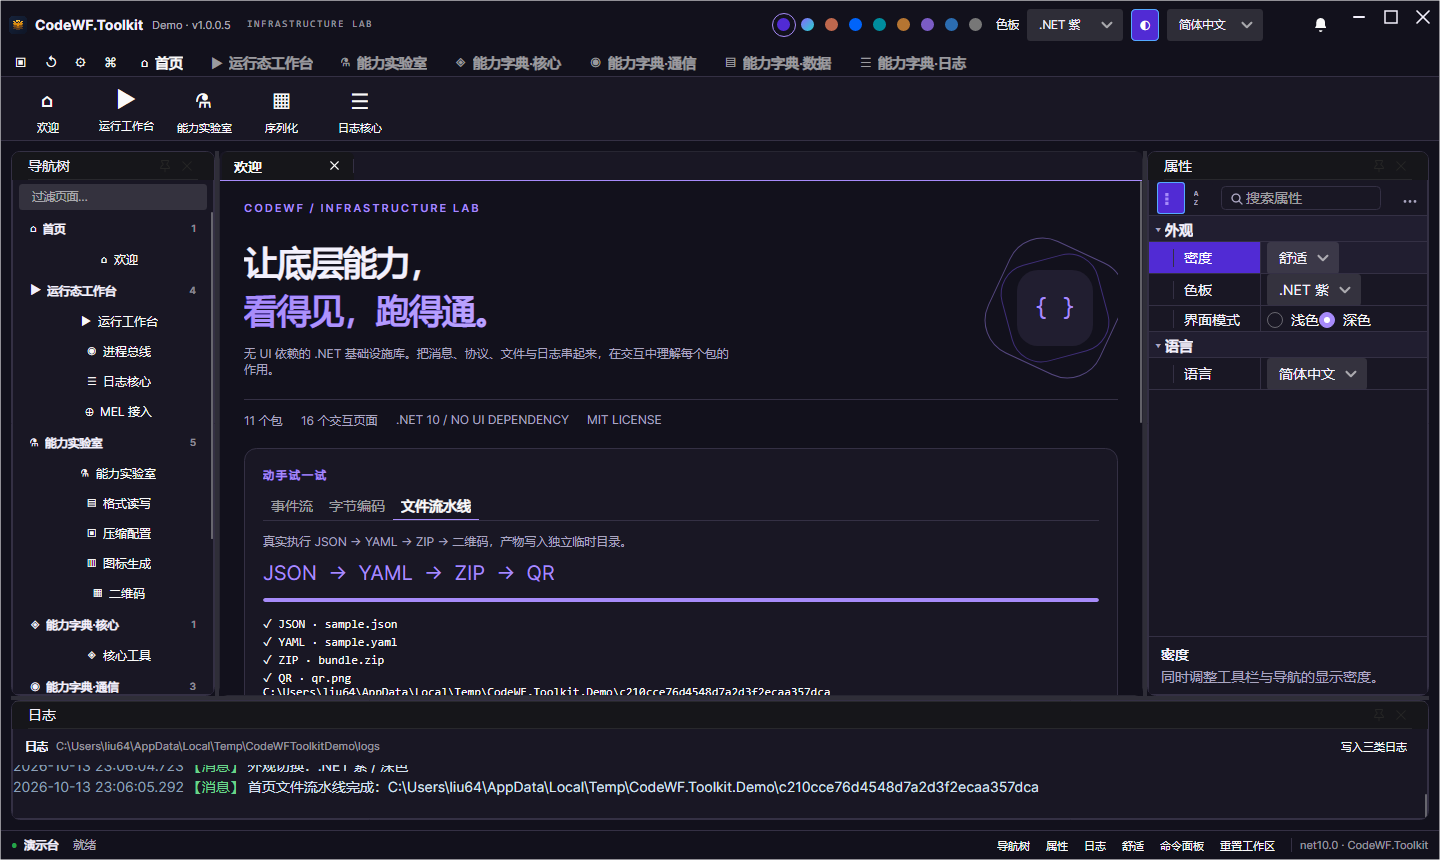
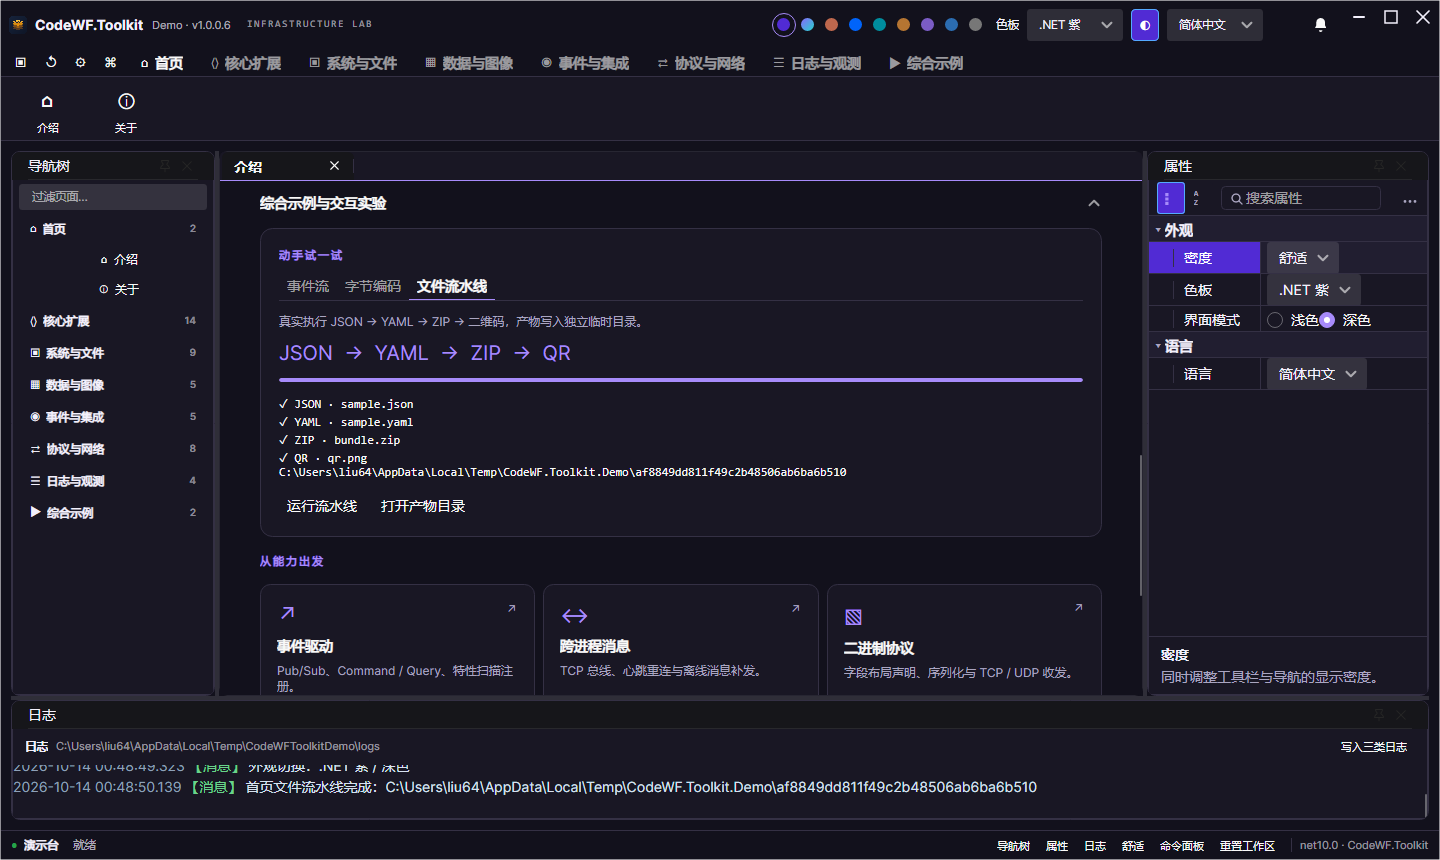
docs(demo): 更新帮助类目录与原生演示截图

diff --git a/docs/NativeDemo.md b/docs/NativeDemo.md
@@ -1,15 +1,14 @@
-# Toolkit 原生演示台
+# CodeWF.Toolkit 原生 Demo
 
-`design/` 原型冻结。图形 Demo 用真实 Toolkit API 展示基础设施如何组成工作流，复用 Semi、Dock 与 CodeWF.Avalonia 的现有 UI。
+保留 Ribbon + Dock，按功能分类查找单个帮助类。原型与实现由 `design/catalog.json` 共享导航契约，详细清单见 [设计目录](../design/README.md)。
 
-## 首页实验
+## 页面结构
 
-- **事件流**：真正订阅、发布与退订 `GreetCommand`，显示接收计数和日志；动画按发布、路由、接收与日志阶段推进。
-- **字节编码**：Int32 经 NetWeaver 序列化和反序列化，显示小端字节与往返结果，支持负数、边界值和无效输入。
-- **文件流水线**：通过 Core 源生成 JSON、Files 转 YAML、SevenZipCompressor 打 ZIP、Image 生成二维码。每次在系统临时目录创建独立文件夹，可直接打开产物。
-- 六张能力卡片进入事件驱动、跨进程消息、二进制协议、文件与数据、图像工具链、运行期观测页面。原有导航、属性编辑、源码、场景工作流及布局存档仍可使用。
-
-默认 .NET 紫色暗色；AI 极光（紫 / 青渐变）和 AI 暖陶也支持深浅模式，原有六套 Semi 配色沿用原来的行为。动画使用 Avalonia 原生能力。首页状态与命令在 `WelcomeViewModel`，视图后置仅做初始化和平台接线。
+- 首页仅包含介绍、关于；介绍先展示 API 目录。
+- 主功能组的一个菜单叶子对应一个帮助类或公开 API。
+- 综合示例统一放在末组，首页的 真实事件总线、Int32 编解码和文件流水线 默认折叠。
+- 演示始终可见；源码按需展开，有内容才显示相应语言标签。
+- 标题栏色圈和下拉同步切换 .NET 紫、AI 极光、AI 暖陶与 Semi 原有配色。
 
 ## 独立构建与 NuGet 依赖
 
@@ -25,43 +24,22 @@ dotnet run --project demo/CodeWF.Toolkit.Demo.Avalonia
 
 Toolkit 的 11 个生产库仍没有 UI 依赖，Demo 通过同仓 ProjectReference 演示当前实现。Prism 集成使用 `DryIoc.dll 4.8.0`，与既有 Prism 的 DryIoc DLL 一致，避免源码包重复编入同名类型。
 
-## 国际化与验证
+## MVVM 与国际化
 
-中文显示文本与代码示例位于 `demo/CodeWF.Toolkit.Demo.Avalonia/I18n/`；AXAML 使用 I18n，C# 组合视图的固定文案用 `StudioUi` 的 `@资源键` 绑定。切换中英文会更新标题、配色名称、固定文案和属性面板，保留用户编辑及产物结果。
+帮助类页面由 `HelperDemoViewModel` 管理输入、异步运行、忙碌状态和结果；`HelperDemoCatalog` 显式调用生产 API。AXAML 后置只保留视图接线，生产工具仍归对应 Toolkit 包。固定中文文案位于 `I18n/` 资源文件，切换语言不会覆盖用户输入与执行结果。
+
+
+## 目录与回归检查
+
+目录以源生成 JSON 元数据读取，页面工厂使用显式分支，避免 AOT 中依赖反射发现页面。测试检查重复菜单 / API、双语标题、显式工厂和原型生成数据一致性；修改目录后执行 `pwsh scripts/sync_design_catalog.ps1`。
 
 ```powershell
-dotnet run --project demo/CodeWF.Toolkit.Demo.Avalonia -- --smoke
-dotnet run --project demo/CodeWF.Toolkit.Demo.Avalonia -- --capture ./artifacts/studio-qa
-dotnet test tests/CodeWF.Toolkit.Tests --filter FullyQualifiedName~DemoResourceTests
+dotnet test CodeWF.Toolkit.slnx -c Release
 ```
-
-首页冒烟检查真实总线接收 / 退订、Int32 极值往返、无效输入、源生成 JSON / YAML 往返、ZIP 条目、二维码与多尺寸 ICO 文件、六个导航入口。另以本机回环 TCP 验证数据包收发和 Socket 事件总线实际握手、订阅、投递、停止；Prism 和 ASP.NET Core 按钮执行真实 DI 注册、扫描与 Query，不启动 HTTP 服务。其余冒烟逐页 / 逐主题渲染并检查场景步骤。
-
-测试验证双语键集合、固定文案缺键和英文资源。截图模式覆盖三套新配色的深浅、三个实验页签、英文、能力卡片、最小窗口及完整功能页面，结束后退出。
-
-日志集合通过 UI 线程追加并保持容量上限。NetWrapper 后台收发与停止流程不捕获调用者的 UI 同步上下文，回归测试使用不泵消息的上下文验证同步停止不会死锁。Socket 内部协议类型显式保留反射元数据，防止 AOT 握手数据被裁剪。
-
-## 原型与库功能映射
-
-| 原型入口 | 原生页面 | 生产库 / 实际调用 |
-|---|---|---|
-| 事件驱动 | Bus、首页事件流 | EventBus 的 Publish / Subscribe / Unsubscribe / Query |
-| 事件驱动的宿主集成 | BusIntegrations | EventBus.Prism 的 AddEventBus / UseEventBus；真实 DryIoc 注册与 Query |
-| 事件驱动的宿主集成 | BusIntegrations | EventBus.AspNetCore 的 AddEventBus / UseEventBus；ServiceProvider 注册与 Query |
-| 跨进程消息 | BusIntegrations、RuntimeFlow | EventBus.Socket 的 broker、握手、订阅、发布与停止 |
-| 二进制协议 | NetPacket、首页字节编码 | NetWeaver 字段声明、对象序列化与 Int32 极值往返 |
-| 二进制协议的传输 | NetSocket、RuntimeFlow | NetWrapper TCP / UDP 页面；冒烟真实验证回环 TCP |
-| 文件与数据 | FilesFormat、FilesArchive、FilesIndex、首页流水线 | Files 的 JSON / YAML / CSV / Excel 入口、归档与索引；冒烟验证 JSON / YAML / ZIP |
-| 图像工具链 | ImageIcon、ImageQr、LabFlow | Image 的图标 / 转换 / 二维码入口；冒烟生成 QR 与多尺寸 ICO |
-| 运行期观测 | LogCore、LogOptions、底部日志 | Logging 配置、健康快照、文件日志与 UI 事件流 |
-| 运行期观测的 MEL 桥接 | LogMicrosoft、RuntimeFlow | Logging.Microsoft 的 AddCodeWF、结构化日志与模板解析 |
-| 运行期观测的核心工具 | Core、首页流水线 | Core 的 JsonTypeInfo 序列化、编码 / 扩展及目录 / 更新检查入口 |
-
-原型已经包含这些库功能。本轮新增的注册按钮、真实 API 冒烟与生成产物使既有入口可执行，没有扩展原型的产品范围，`design/` 保持冻结。原生界面沿用 Semi / Dock 控件模板，窗口按钮、属性编辑器与字体存在平台差异，不宣称像素级一致。
 
 ## Windows NativeAOT 验收
 
-当前环境为 Windows x64、.NET SDK 10.0.401，Toolkit 版本 `1.0.0.5`。执行各自的仓库脚本，然后直接启动原生 EXE：
+验收环境为 Windows x64、.NET SDK 10.0.401，版本 `1.0.0.6`。用本仓脚本发布后直接启动原生 EXE：
 
 ```powershell
 pwsh scripts/publish_toolkit_demo.ps1 -RuntimeIdentifier win-x64
@@ -70,6 +48,12 @@ Start-Process $demo -ArgumentList '--smoke' -Wait -PassThru
 Start-Process $demo -ArgumentList '--capture ./artifacts/studio-qa' -Wait -PassThru
 ```
 
-退出 0 才算通过。冒烟包含上述实调用、16 个页面、9 个场景步骤、208 次页面渲染和 5 次外壳渲染；日志位于系统临时目录 `CodeWFToolkitDemo/logs`。README 的 PNG 来自原生产物，GIF 由主题 / 实验切换时的原生界面帧生成。
+冒烟退出 0：49 个页面、9 个场景步骤、637 次主题渲染、5 次外壳渲染；另外验证首页总线退订、Int32 极值往返、JSON / YAML、ZIP、QR / ICO，以及新增帮助类的实调用。TCP、UDP、Socket 事件总线与远程目录请求使用本机实例；Windows NativeLibraryHelper 解析 kernel32 的导出地址。UpdateChecker 需要用户点击才访问 GitHub，不纳入离线冒烟。
 
-第三方库和反射路径仍有裁剪 / AOT 分析警告，包括旧 Prism 对话框与动态 XAML Loader 的版本兼容警告。当前 Demo 不走这两条路径。验收不等同于所有库 API、异常路径与 CSV / Excel、UDP、断线补发等操作均已在 NativeAOT 下验证；Linux / macOS 留给发布矩阵验证。`v1.0.0.5` 标签触发 NuGet 和 Demo 发布。
+`--capture` 忽略用户存档布局，输出新配色的深浅、实验、英文、紧凑窗口和独立 API 页面截图，结束后退出。README 的 PNG 与 GIF 来自本轮原生 EXE。
+
+## 验收限制
+
+第三方库及动态反射路径仍有裁剪 / AOT 分析警告。远程文件上传、下载、断点续传及 Excel 等未在本轮原生冒烟中逐项验证；Linux / macOS 未在本机验收。NativeLibraryHelper 目前只支持 Windows。 页面渲染通过不等于全部 API、异常路径和平台行为均已验证。
+
+版本标签 `v1.0.0.6` 触发现有 NuGet 与 Demo 发布流程。

diff --git a/design/README.md b/design/README.md
@@ -1,36 +1,42 @@
-# CodeWF.Toolkit · Infrastructure Lab
+# CodeWF.Toolkit Demo 设计
 
-直接用现代浏览器打开 `CodeWF.Toolkit.Demo原型.html`，无需安装依赖。
+直接打开 `CodeWF.Toolkit.Demo原型.html`。原型与原生 Demo 共用 `catalog.json` 目录；Ribbon 与导航树读取同一份分类。
 
-## 设计方向
+## 信息架构
 
-用可观察的过程展示无 UI 依赖的基础设施库：发布消息时点亮 Publisher → EventBus → Subscriber → Logger 路径，修改整数查看编码后的字节与解码结果，运行文件处理流程示意。六个能力入口对应事件驱动、跨进程消息、二进制协议、文件数据、图片工具链、运行期观测。原有 16 个页面与场景工作流保留。
+按功能分类，每个主导航叶子对应一个具体帮助类或公开 API；介绍、关于和综合示例是明确的辅助入口。保留 Ribbon + Dock 外壳，将组合工作流集中到最后一组，首页先展示 API 目录，再提供默认折叠的实验区。
 
-沿用桌面应用的 Ribbon、导航、文档页签、属性与日志布局，以新的表面、间距、字重与动效统一外观。首页快速入口可以直接进入运行工作台、能力实验室、协议与日志页。
+| Ribbon 分类 | 菜单对应 API |
+|---|---|
+| 首页 / Home | `介绍`、`关于` |
+| 核心扩展 / Core Extensions | `StringExtensions`、`RegexExtensions`、`DoubleExtensions`、`NumberExtension`、`DateTimeExtension`、`TimeSpanExtensions`、`RandomExtension`、`IConvertibleExtensions`、`ObjectExtension`、`LinqExtension`、`EnumExtension`、`AssemblyExtensions`、`ValidationExtension`、`DateTimeConverter` |
+| 系统与文件 / System & Files | `ActionHelper`、`IpHelper`、`NativeLibraryHelper`、`FileHelper`、`AppDataMigrator`、`UpdateChecker`、`FileExtension`、`SevenZipCompressor`、`AppConfigHelper` |
+| 数据与图像 / Data & Images | `JsonExtensions`、`YamlExtensions`、`DataTableExtensions`、`ImageHelper`、`QrCodeGenerator` |
+| 事件与集成 / Events & Integration | `EventBus`、`Prism.EventBusExtensions`、`AspNetCore.EventBusExtensions`、`EventServer`、`EventClient` |
+| 协议与网络 / Protocol & Network | `SerializeHelper`、`TcpSocketServer`、`TcpSocketClient`、`UdpSocketServer`、`UdpSocketClient`、`NetHelper`、`TcpSocketClientFileSystemFeature`、`TcpSocketServerFileSystemFeature` |
+| 日志与观测 / Logging & Diagnostics | `Logger`、`CodeWFLoggingBuilderExtensions`、`LogEventFeed`、`CodeWFLogHealth` |
+| 综合示例 / Examples | `运行态工作流`、`文件处理工作流` |
 
-## 配色
+共 8 个分类、49 个页面。文档区默认完整展示功能演示；源码面板由“查看源码”打开，只提供有内容的 XAML / C# 标签。页面标题展示 API 名、NuGet 包与功能说明。
 
-| 配色 | 用途 | 颜色 |
-|---|---|---|
-| .NET Purple（默认） | .NET 品牌识别 | 品牌紫 `#512BD4`，深色文字使用更亮的紫色以保持可读性 |
-| AI Aurora | 科技感的视觉主题 | 紫色与青色渐变 `#8968FF → #26D4CC` |
-| AI Ember | 柔和、暖色的视觉主题 | 陶土色 `#BD674D` 与暖杏色 |
+## 配色与交互
 
-AI 配色是设计方向名称，不是统一的 AI 官方品牌色，也不代表本库新增了 AI 能力。原有六套配色继续可选，九套配色均支持深浅切换；这些新增配色目前仅用于 HTML 原型。
+默认 .NET 品牌紫 `#512BD4`，另有 AI Aurora（紫 / 青）与 AI Ember（暖陶）视觉主题，均支持深浅切换。AI 配色是视觉设计名称。标题栏色圈与下拉框共享选中状态，继续提供 Semi 原有配色。
 
-## 交互与动效
+保留主题、语言、密度、命令搜索、布局存档、Dock 面板显隐与引导。页面进入和按钮悬停有动画，并遵循浏览器“减少动态效果”设置。主导航菜单与首页目录点击后同步当前 Ribbon 分类。
 
-- 首页：消息路径逐步点亮、真实 Int32 小端字节编码 / 解码、四步流水线状态流转、安装命令复制。切换视图后停止旧视图的异步更新。
-- 全局：页面进入、卡片悬浮、品牌轨道、面板切换与弹层动效；遵循系统「减少动态效果」设置。
-- 快捷键：`Ctrl+K` 搜索命令，`Ctrl+S` 保存布局，`Ctrl+D` 深浅切换，`Ctrl+L` 语言切换，`F1` 引导。
-- 修复旧原型丢失事件绑定、场景页无法嵌入静态能力页、运行态最后一步缺少子页映射的问题。
+## 维护
 
-## 实现边界
+1. 在 `catalog.json` 维护分类、API、NuGet 包、页面工厂说明和原型路由。
+2. 在 Demo 的 `I18n/` 配置中维护双语标题与 `Demo.Api.*.Desc` 功能说明。
+3. 为原生 `DemoCatalog` 添加显式页面工厂，为原型注册对应演示。
+4. 执行 `pwsh scripts/sync_design_catalog.ps1` 更新浏览器目录与文案。
+5. 执行目录一致性测试与 Demo 冒烟检查。
 
-首页消息总线和文件流水线是浏览器交互示意，不建立 TCP 连接，不实际执行压缩、图片处理或 .NET 代码。协议预览用浏览器 DataView 编码一个 Int32 字段，不模拟完整 NetWeaver 数据包头。完整 API 能力与约束以仓库源码为准。
+`assets/catalog-data.js` 是生成文件；`catalog-gallery.js` 和 `catalog-gallery.css` 负责目录布局与浏览器预览。各仓库独立携带所有原型资源。
 
-新增视觉层位于 `assets/studio.css`，首页与交互增强位于 `assets/studio.js`。两仓的这两个文件保持相同，通过页面上的 `data-product` 选择内容，分发时各自独立运行。
+## 实现与验证边界
 
-## 验证
+浏览器原型展示交互与布局，不运行 .NET、原生窗口、Socket 或文件导出。页面明确提示仅为浏览器预览；实际 API 结果在原生 Demo 中产生。原生控件使用 Semi 与 Dock 的模板，字体、窗口按钮和平台交互存在差异。
 
-使用 Chromium / Edge 检查了 16 页渲染、消息交互、字节编码与非法输入、流程运行与切换取消、运行态第五步、实验室子页切换、九套配色的深浅模式、布局保存恢复、命令面板、320 / 390 / 768 / 1024 / 1440 像素首页布局与减少动态效果设置。未变更或验证原生 .NET 演示程序。
+浏览器逐页检查 49 个路由、中英文和导航切换，未发现脚本异常。NativeAOT 运行范围、命令与限制见 [原生 Demo 文档](../docs/NativeDemo.md)。

diff --git a/README.md b/README.md
@@ -173,17 +173,19 @@ CI 的 `aot-smoke` 作业会对控制台演示与 Avalonia 演示台做 `Publish
 
 ## 演示 / Demos
 
-新版原生首页提供真实事件流、Int32 字节编码和 JSON → YAML → ZIP → QR 流水线，默认使用 .NET 紫，并支持 AI 极光与暖陶配色。图形 Demo 通过 NuGet 引用 UI 库，**只克隆本仓即可构建**；功能映射、双语资源与 Windows x64 NativeAOT 验收见 [原生演示台文档](docs/NativeDemo.md)。
+Demo 保留 Ribbon + Dock，按核心扩展、系统与文件、数据与图像、事件与集成、协议与网络、日志与观测分类；每个主菜单对应一个帮助类，49 个页面按类名查找，组合工作流集中到“综合示例”。详见 [原生 Demo 文档](docs/NativeDemo.md)。
 
 ![.NET 紫色原生演示台](https://raw.githubusercontent.com/dotnet9/CodeWF.Toolkit/main/docs/images/studio-dotnet.png)
 
 ![AI 极光浅色原生演示台](https://raw.githubusercontent.com/dotnet9/CodeWF.Toolkit/main/docs/images/studio-aurora-light.png)
 
+![JsonExtensions 独立演示](https://raw.githubusercontent.com/dotnet9/CodeWF.Toolkit/main/docs/images/studio-json.png)
+
 ![文件流水线与真实产物](https://raw.githubusercontent.com/dotnet9/CodeWF.Toolkit/main/docs/images/studio-pipeline.png)
 
 ![主题与实验切换](https://raw.githubusercontent.com/dotnet9/CodeWF.Toolkit/main/docs/images/studio-interactions.gif)
 
-The native overview runs real event, serialization and file experiments. Building the GUI currently requires the sibling CodeWF.Avalonia source checkout; the console Demo and production libraries remain independently buildable.
+The Ribbon and Dock demo groups APIs by function, with one helper class per primary menu entry. Composite workflows are in the final category. Its UI libraries come from NuGet; cloning CodeWF.Toolkit alone is sufficient to build the GUI and console demos.
 
 ```bash
 # 控制台演示：依次跑日志、进程内总线、分布式总线、序列化，然后进入交互菜单
